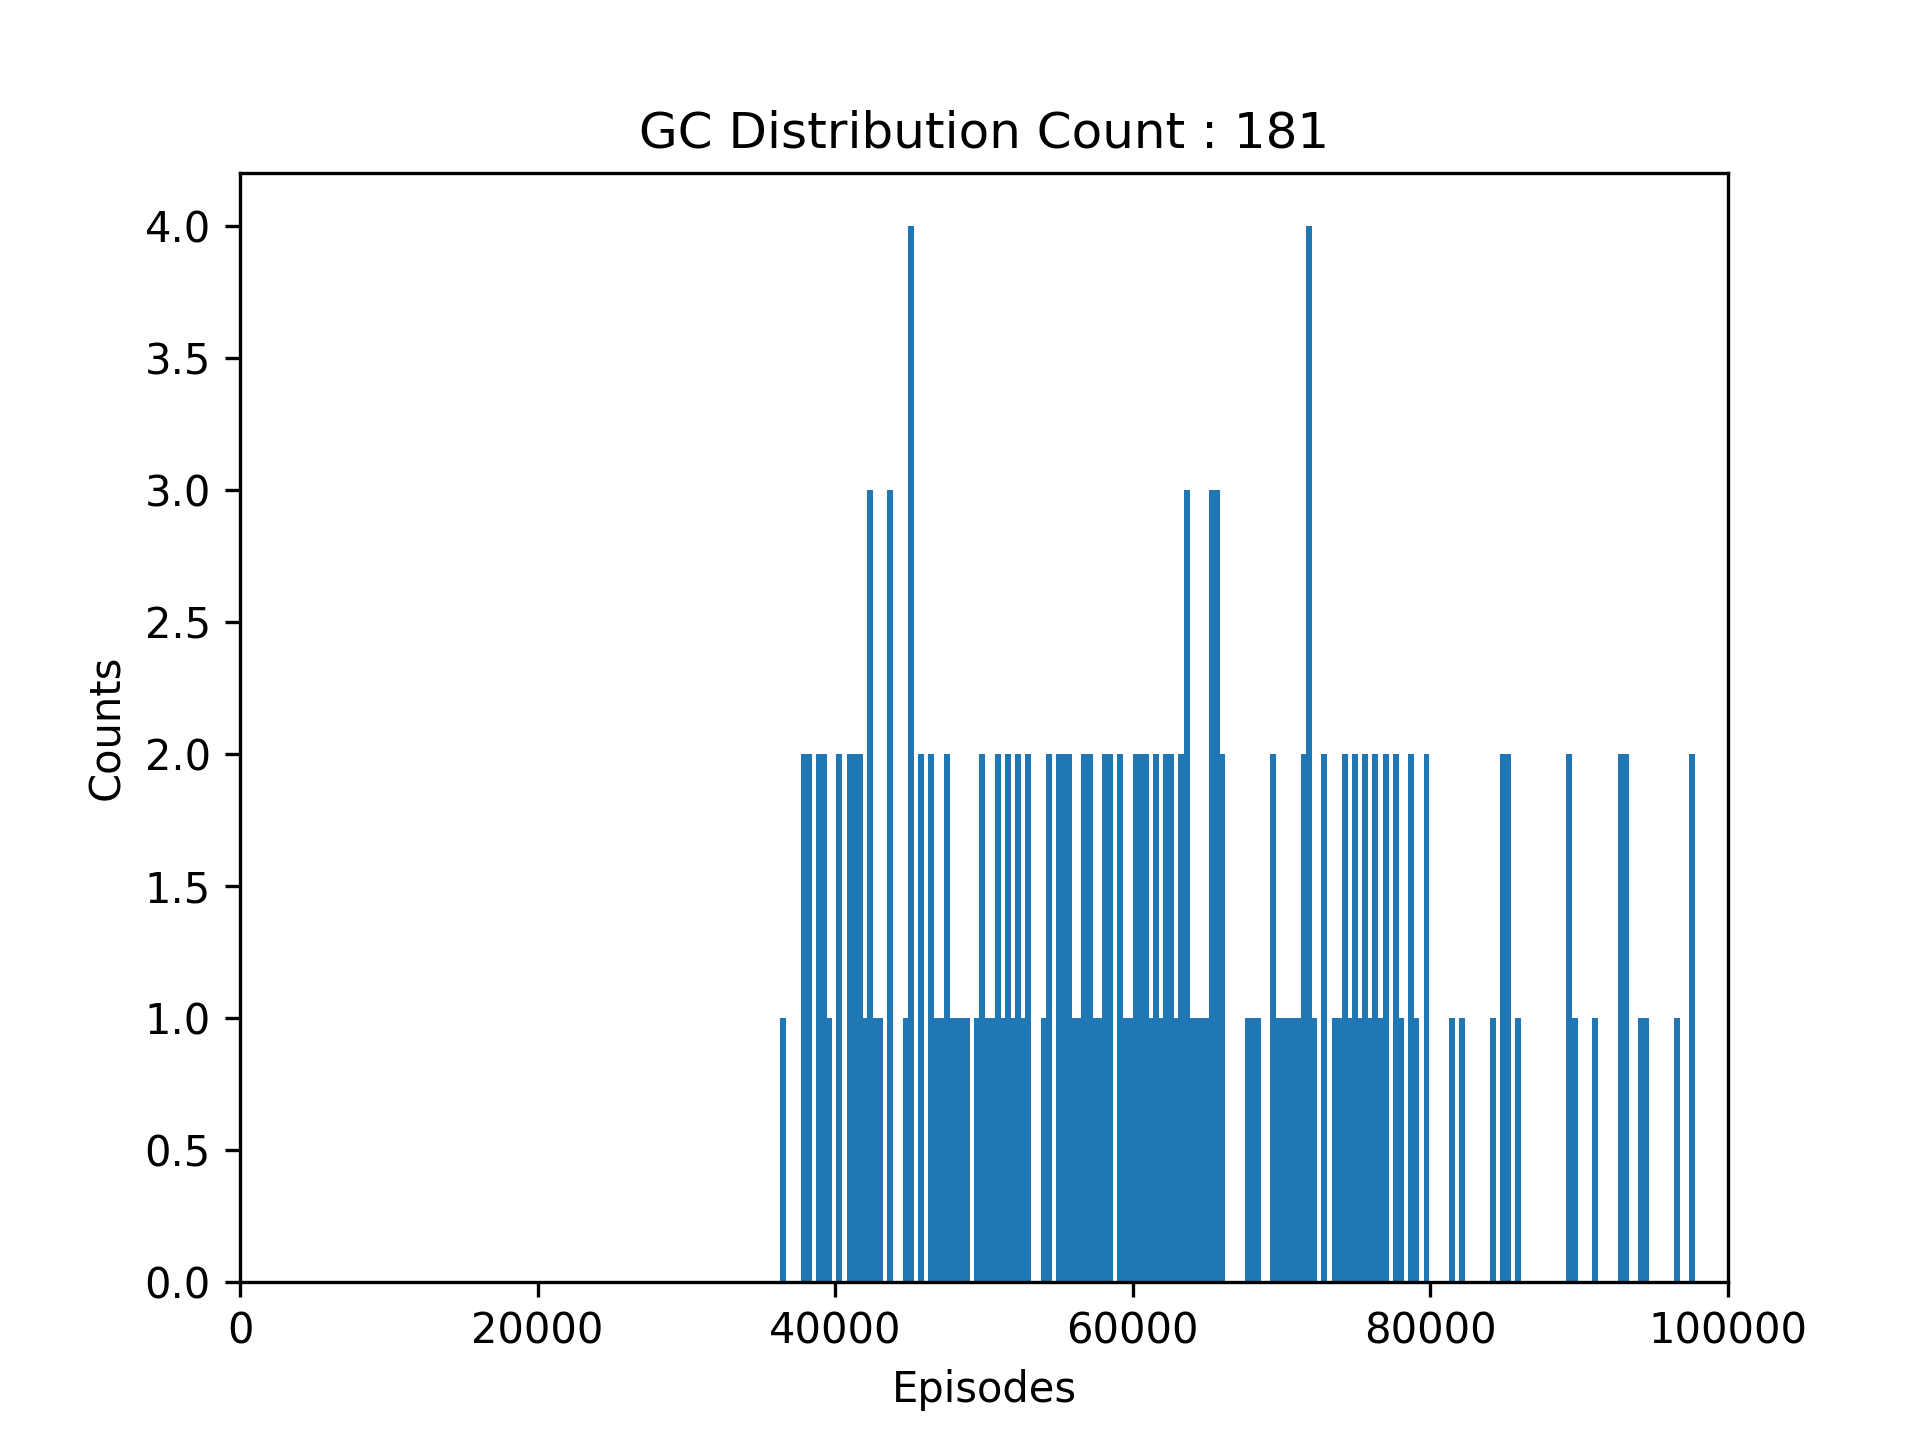
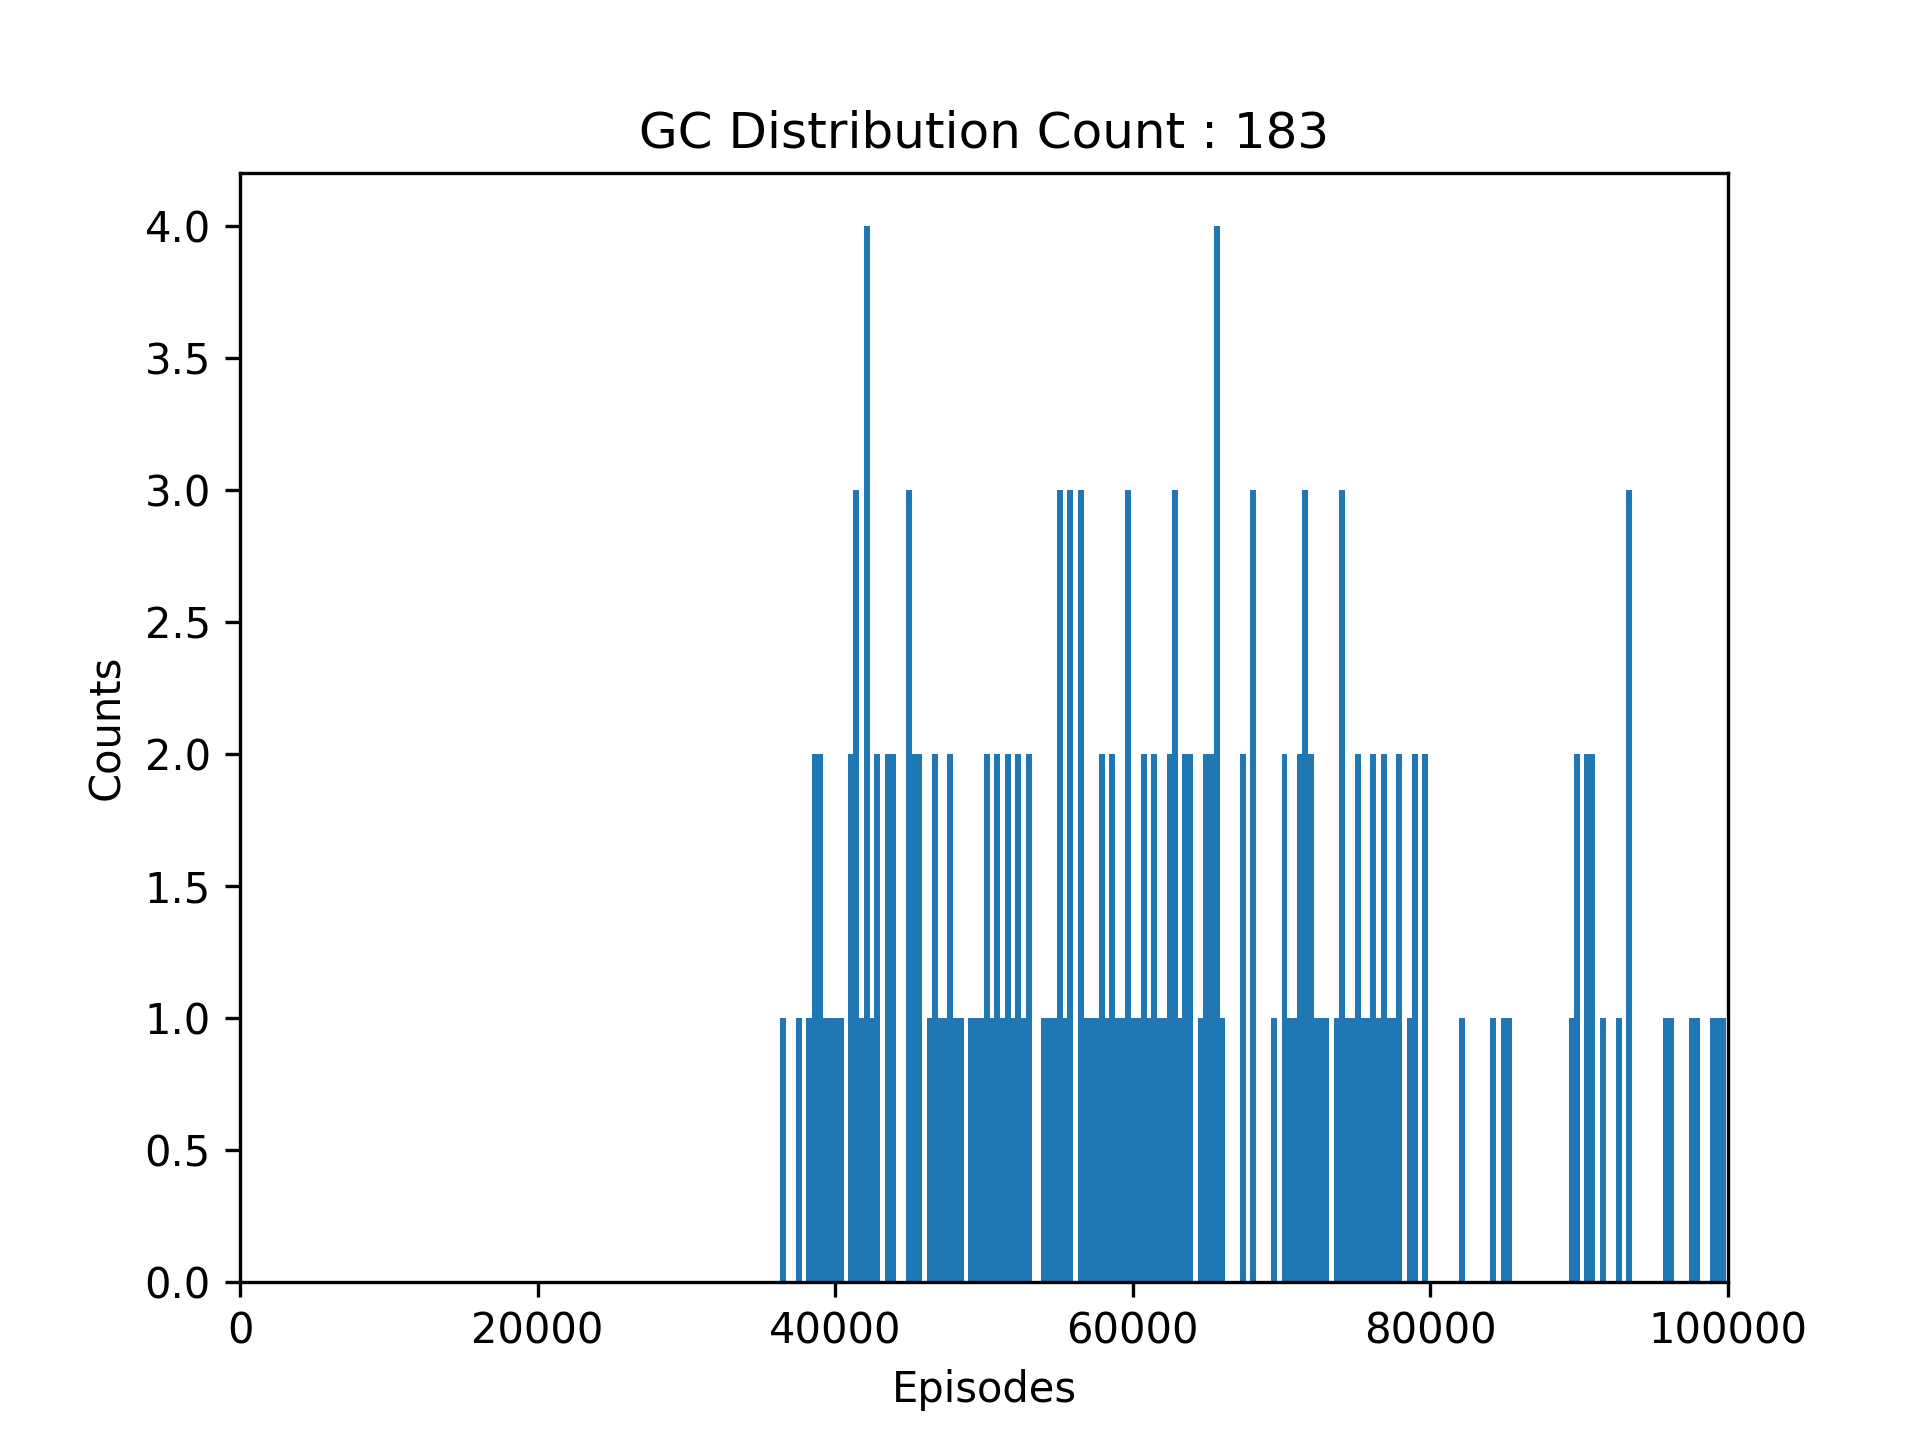
change random strategy

Changed region(s): [[0.4062, 0.3125, 0.75, 0.9062], [0.7812, 0.5, 0.9062, 0.9062]]

diff --git a/ftl/flash_translation.py b/ftl/flash_translation.py
@@ -39,7 +39,8 @@ class FlashTranslation:
         if self.strategyType == 'All':
             action = ACTION_SPACE[0]
         elif self.strategyType == 'Random':
-            action = random.choice(ACTION_SPACE)
+            action = random.choices(ACTION_SPACE, weights = [3, 1], k = 1)
+            action = action[0]
         elif self.strategyType == 'Statistic':
             action = ACTION_SPACE[request.action]
         elif self.strategyType == 'PreTrain':
